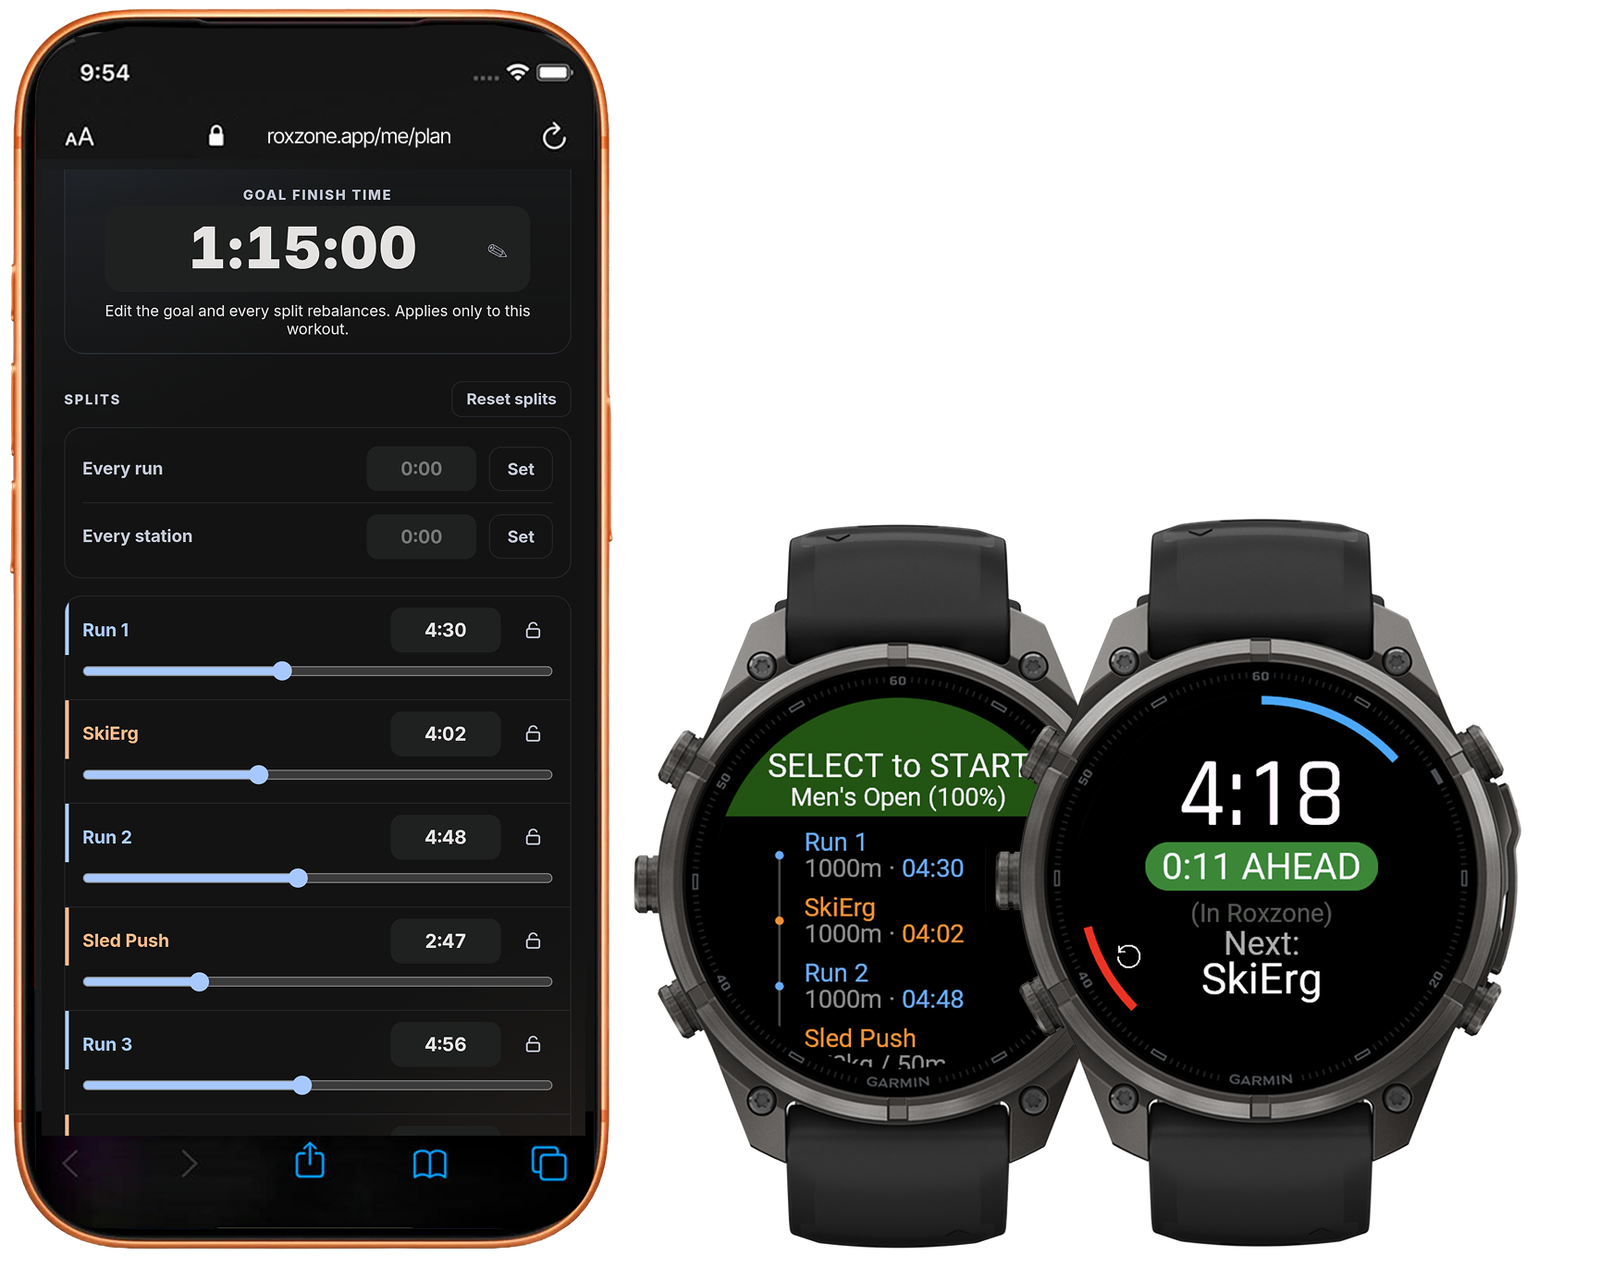
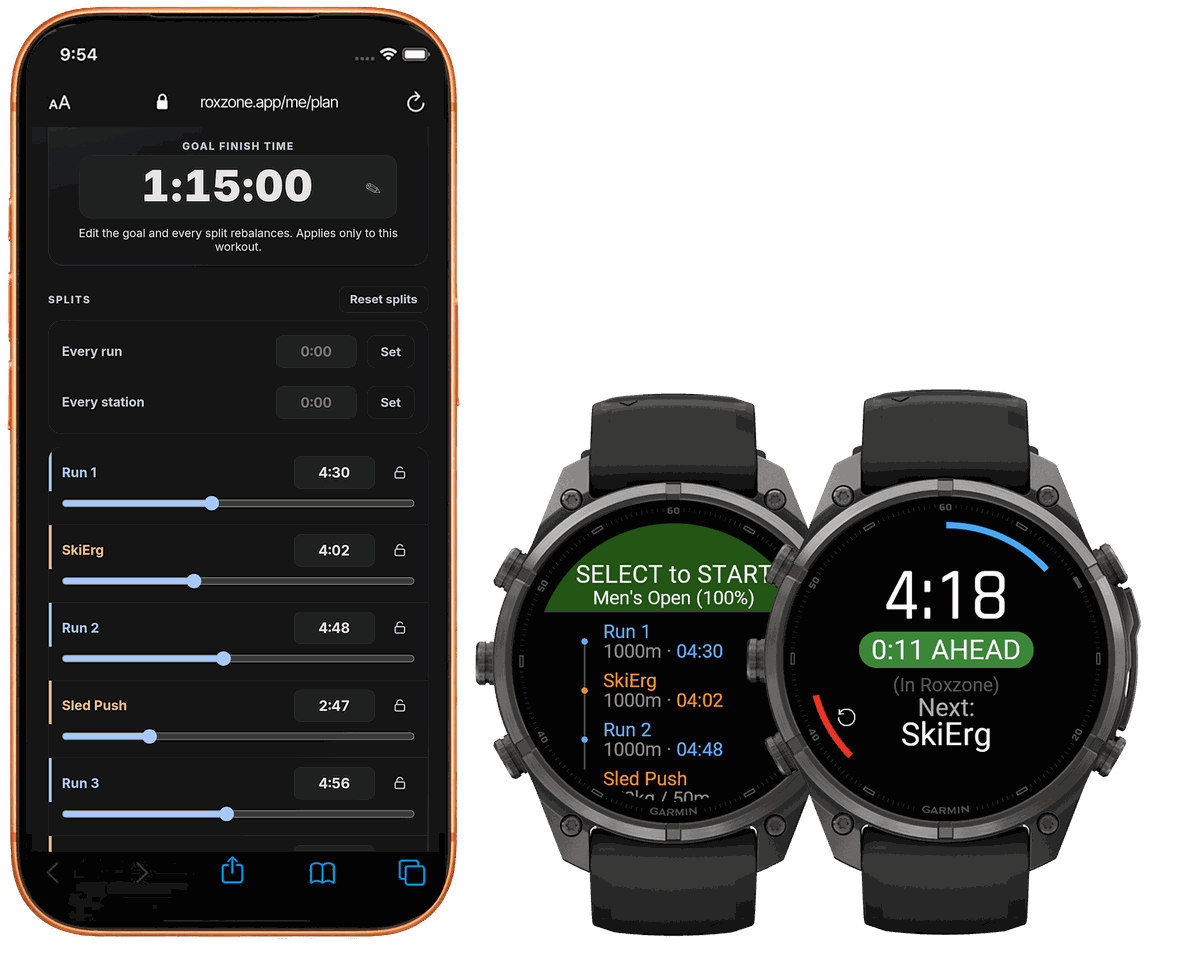
Race Plan artwork at 1200px - 2x the slot, a fifth of the bytes

diff --git a/index.html b/index.html
@@ -416,7 +416,7 @@
         <figure class="plan-media">
           <picture>
             <source srcset="./assets/race-plan.webp" type="image/webp">
-            <img src="./assets/race-plan.png" width="1600" height="1280"
+            <img src="./assets/race-plan.png" width="1200" height="960"
                  loading="lazy" decoding="async"
                  alt="A race plan being built on a phone at roxzone.app next to two Garmin watches: one showing the plan's targets on the workout ladder, the other showing a lap 0:11 ahead of the plan">
           </picture>
